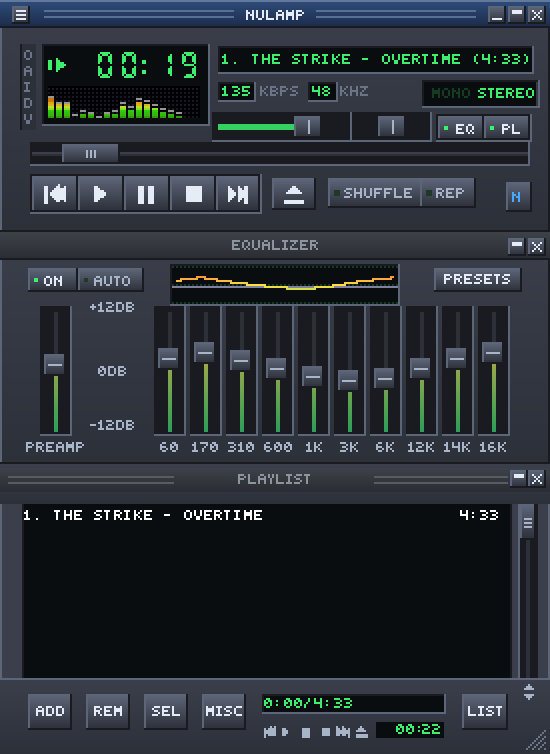
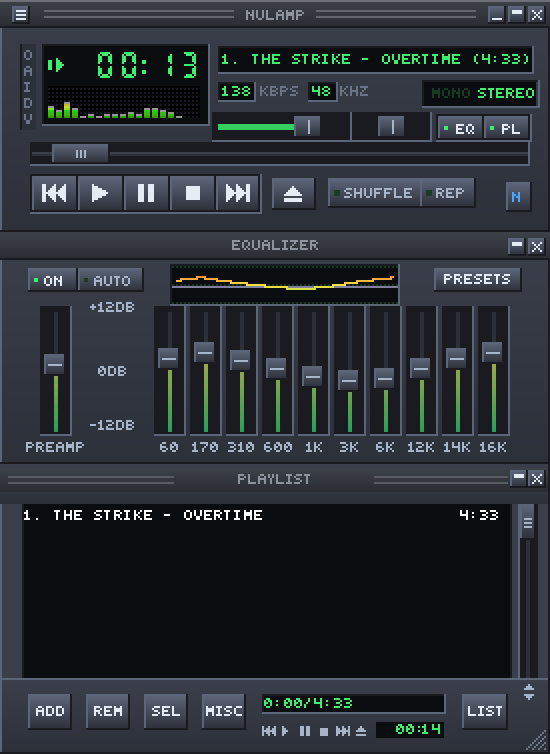
docs: retake README screenshots at a true 2x, reproducibly
The library screenshot was shown at half size (1x) next to the 2x player.
Both are now 2x: the library window is captured at 400x232, so it fits
GitHub's column at 800 px. The new transport icons are in the shots.
scripts/screenshots/take.sh retakes them in a container (Xvfb and a
PulseAudio null sink), so nothing shows or plays on the host.

diff --git a/CONTRIBUTING.md b/CONTRIBUTING.md
@@ -47,3 +47,5 @@ Use Conventional Commits (`feat:`, `fix:`, `chore:`, `docs:`, `test:`, `refactor
   never go into the repository.
 - Windows from Linux: `scripts/windows-check.sh` runs clippy for `x86_64-pc-windows-gnu` and the
   test suite under Wine, in Docker (`scripts/wincheck/Dockerfile`).
+- README screenshots: `cargo build --release -p nulamp`, then `scripts/screenshots/take.sh <music folder>`.
+  It runs nulamp in a container (Xvfb, PulseAudio null sink): no windows or sound on the host.

diff --git a/README.md b/README.md
@@ -8,7 +8,9 @@ the original player. Its default skin is generated by [`tools/skingen`](tools/sk
 
 <p>
   <img src="docs/screenshots/player.png" alt="Main window, equalizer and playlist editor with the default skin" width="550">
-  <img src="docs/screenshots/library.png" alt="Media library window" width="525">
+</p>
+<p>
+  <img src="docs/screenshots/library.png" alt="Media library window" width="800">
 </p>
 
 ## Features
